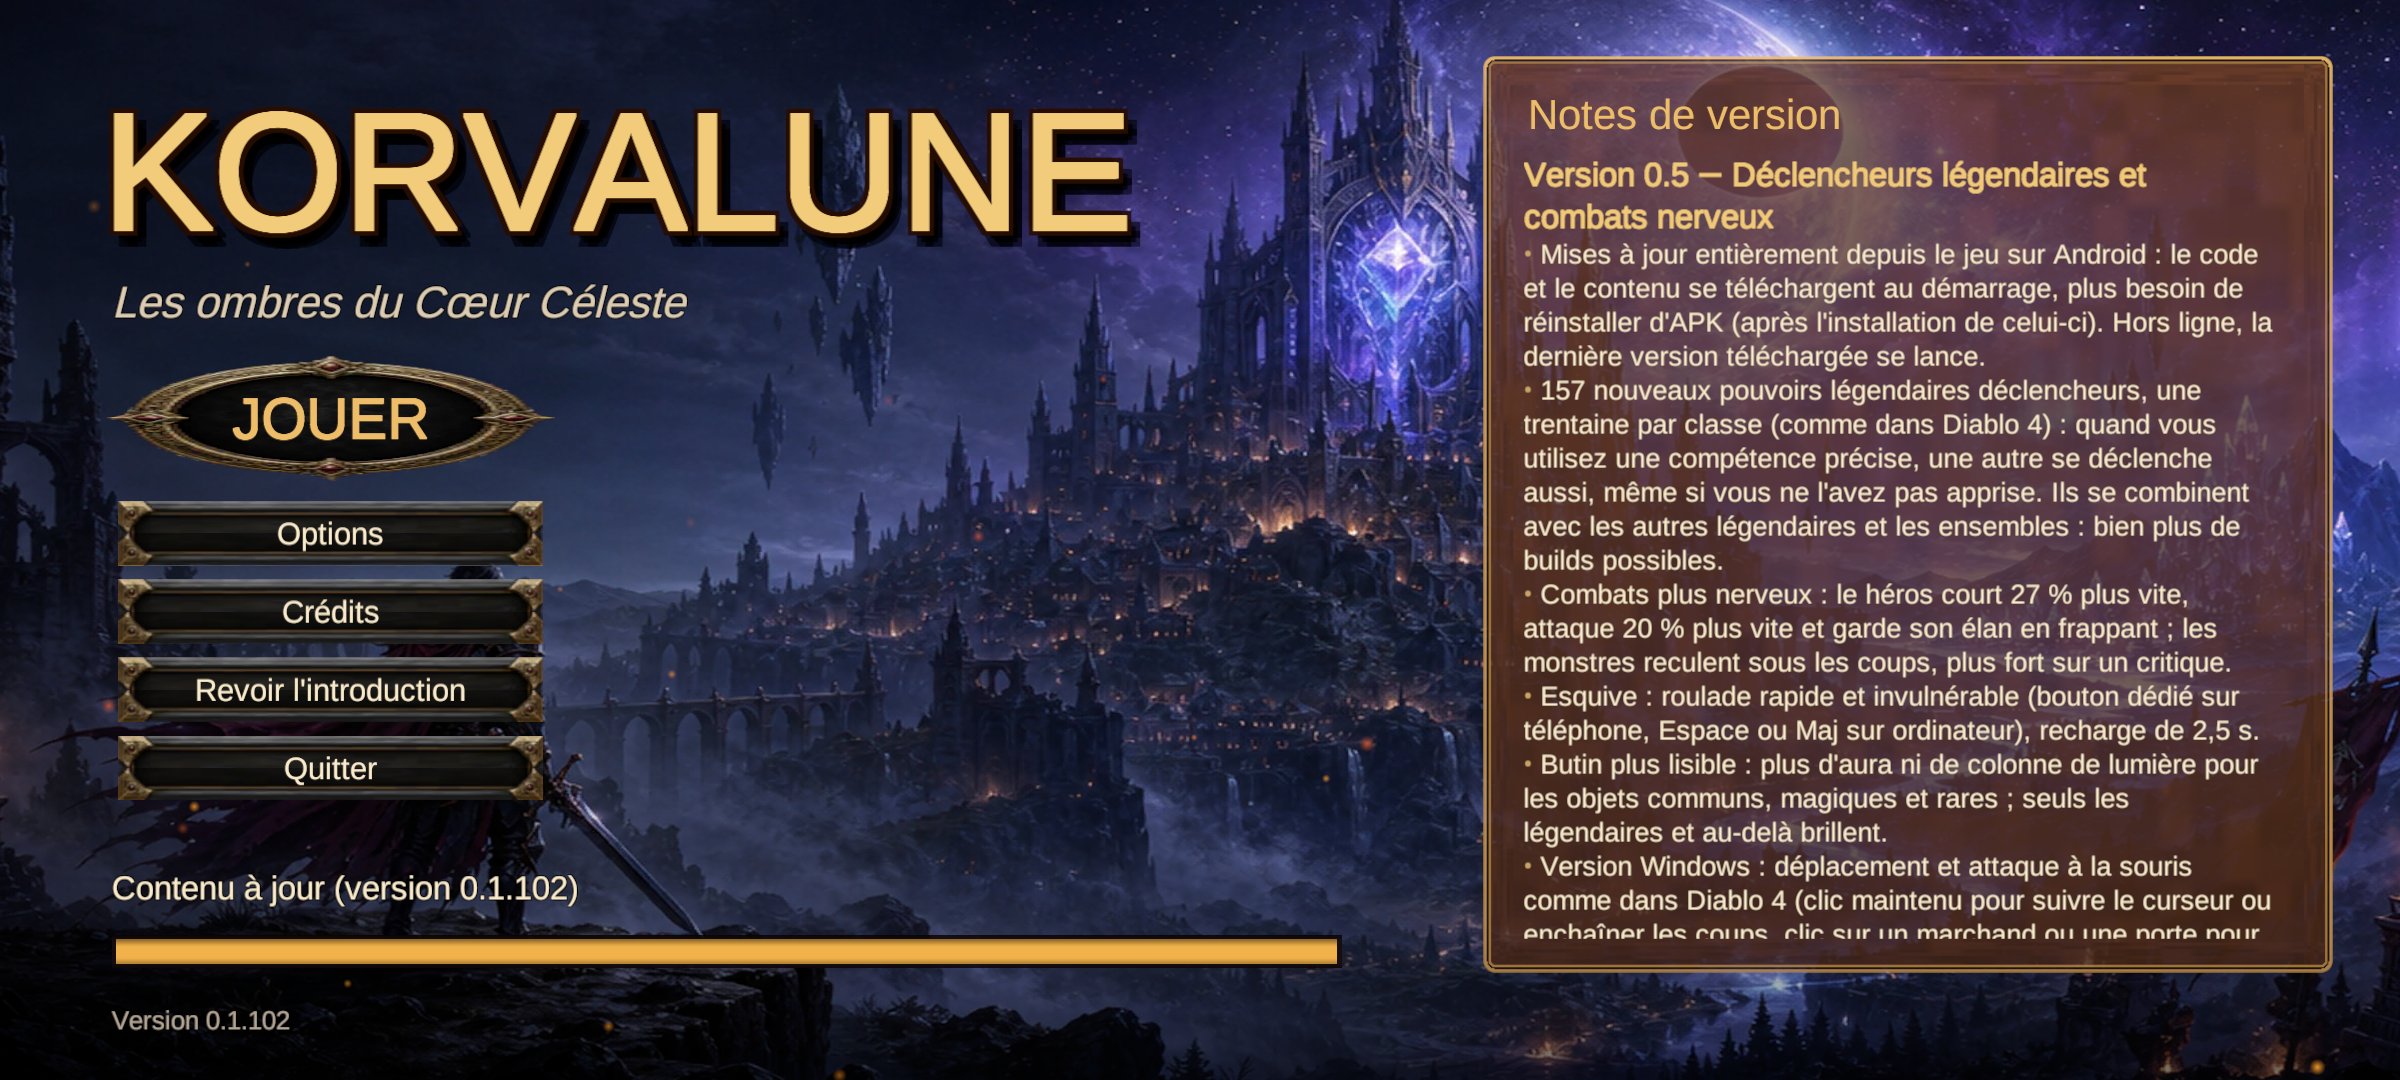
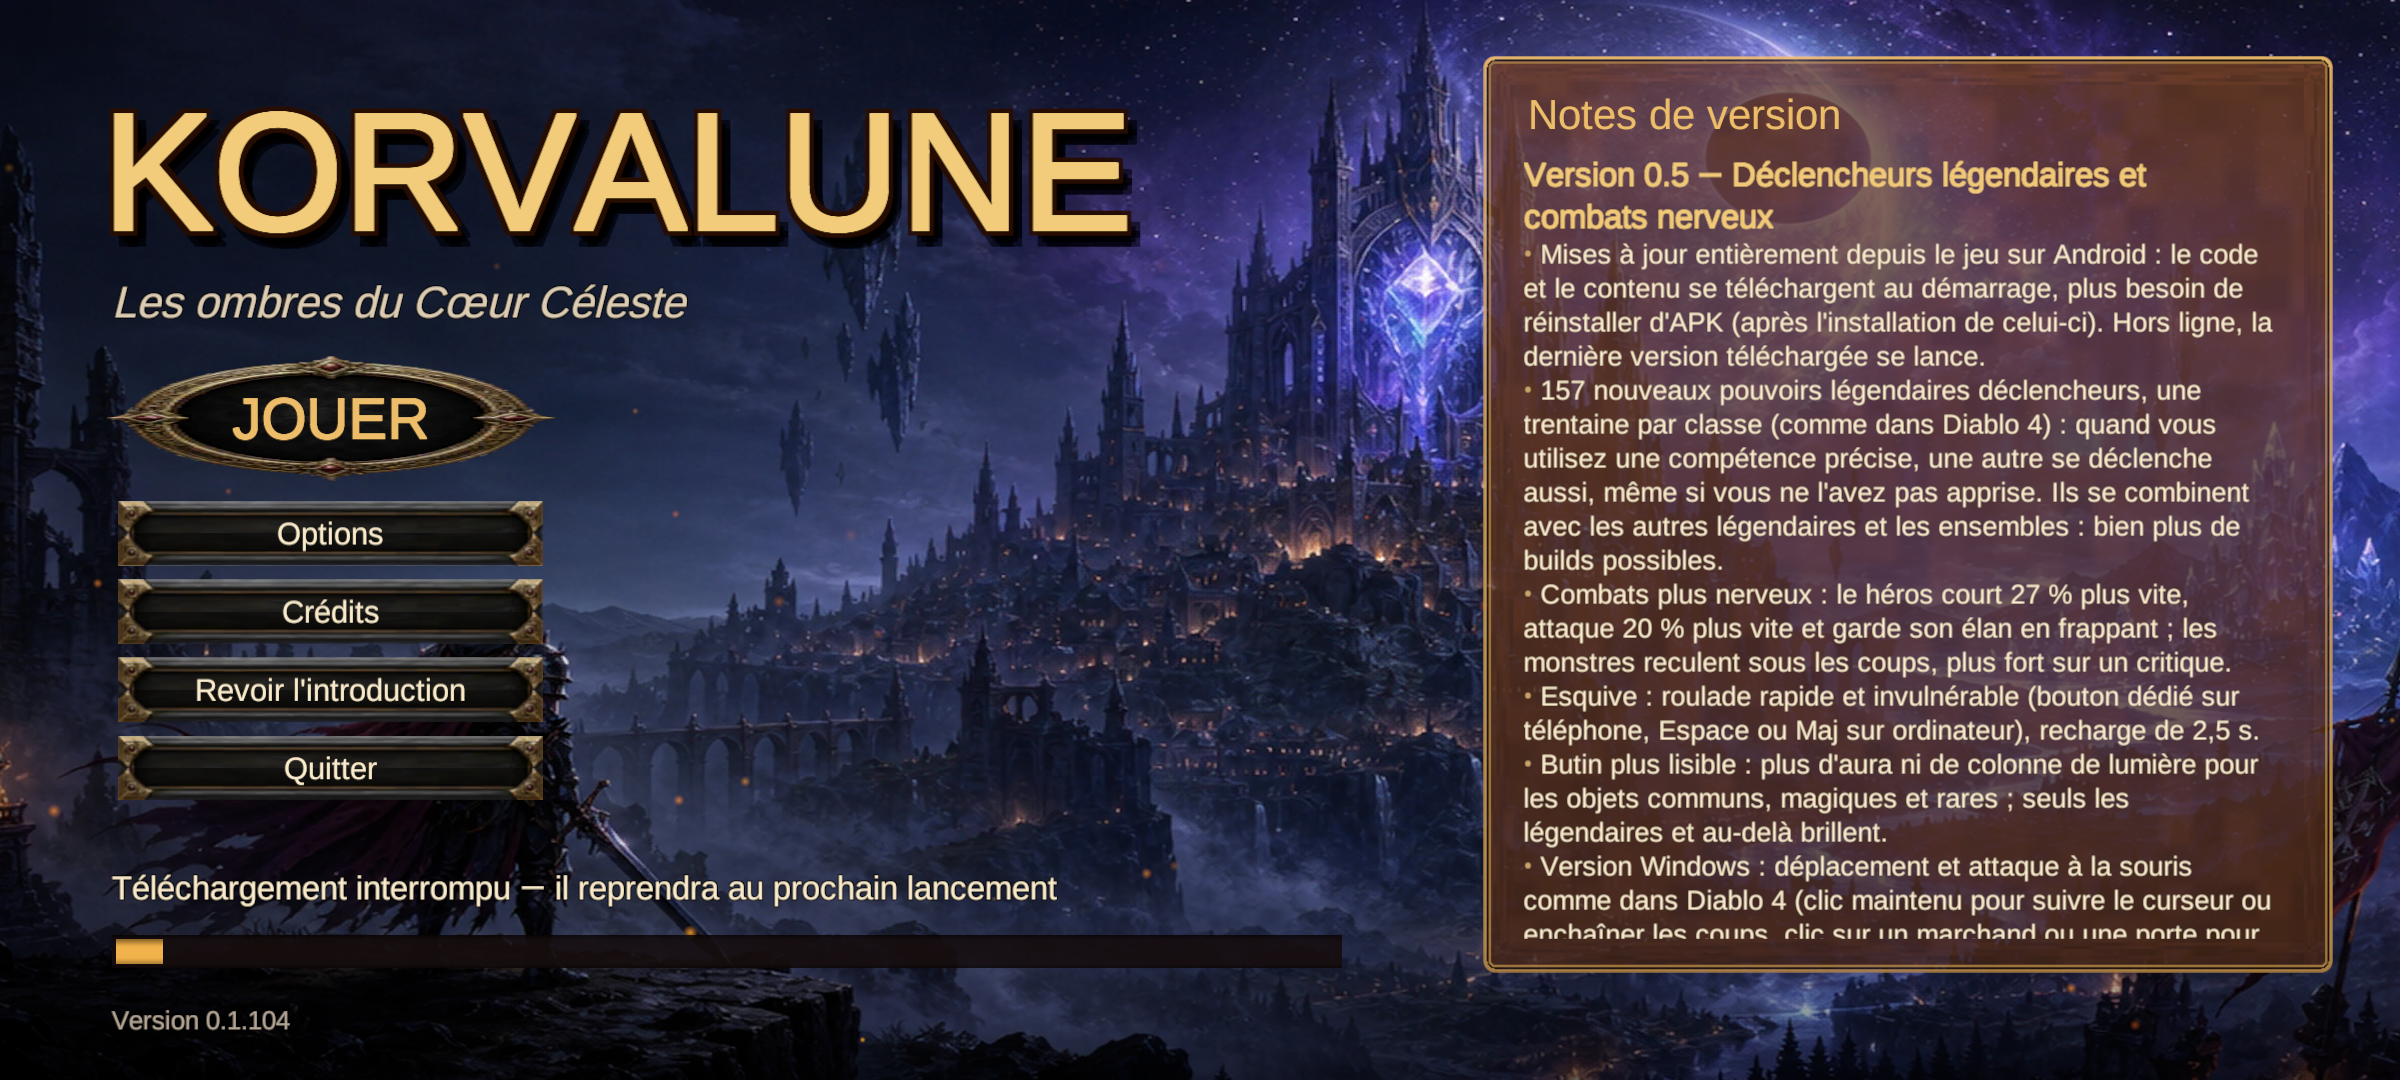
Android : APK construit et testé dans l'émulateur [skip ci]

diff --git a/ci-out/android/build.md b/ci-out/android/build.md
@@ -3,7 +3,7 @@
 - Scènes : Korvalune_Lanceur, Korvalune_Selection, CharacterCreator, Korvalune_Vallee, Korvalune_Crypte, Korvalune_Terriers, Korvalune_Eclipse, Korvalune_Breche, Korvalune_Foret, Korvalune_Desert, Korvalune_Pics, Korvalune_Cote, Korvalune_Marais, Korvalune_Toundra, Korvalune_Volcan, Korvalune_Canyon, Korvalune_Abime
 - Signature : clé Korvalune (mises à jour sans désinstaller)
 - Icône : Assets/Korvalune/Resources/UI/Icone.png
-- Contenu téléchargeable : 100 paquets, 722 Mo (release contenu-102)
+- Contenu téléchargeable : 100 paquets, 722 Mo (release contenu-104)
     - scenes : 146.4 Mo
     - art_catalog_models : 58.3 Mo
     - art_catalog_skins : 34.6 Mo
@@ -16,11 +16,10 @@
     - art_heroes_kaeldraven_f : 17.2 Mo
     - art_heroes_kaeldraven_m : 16.7 Mo
     - art_heroes_tharion_f : 16.7 Mo
-- HybridCLR : installation 9.0.3 (il2cpp v6000.0.x-9.0.1)
-- HybridCLR : génération en 2.5 min
-- Code mis à jour depuis le jeu : Korvalune.Runtime 653 Ko + 7 métadonnées (9.0 Mo), APK minimal 0
-- Résultat : **Succeeded** en 17.0 min, 0 erreur(s), 12 avertissement(s)
-- APK : 129.1 Mo, version 0.1.102
+- HybridCLR : génération en 2.0 min
+- Code mis à jour depuis le jeu : Korvalune.Runtime 664 Ko + 7 métadonnées (9.0 Mo), APK minimal 0
+- Résultat : **Succeeded** en 21.6 min, 0 erreur(s), 12 avertissement(s)
+- APK : 129.1 Mo, version 0.1.104
 
 ## Contenu empaqueté : 35 Mo
 - Texture2D : 23.0 Mo (295)
@@ -28,7 +27,7 @@
 - Cubemap : 1.6 Mo (13)
 - Shader : 1.3 Mo (34)
 - Sprite : 0.1 Mo (210)
-- MonoScript : 0.1 Mo (911)
+- MonoScript : 0.1 Mo (914)
 - Font : 0.1 Mo (1)
 - MonoBehaviour : 0.1 Mo (434)
 - RectTransform : 0.0 Mo (348)
@@ -70,46 +69,46 @@
 
 ## Mémoire pendant la construction (dernières mesures)
 ```
-09:46:40 ram 6981/15983 swap 1/16383  4806296 Unity 454608 Unity.ILPP.Runn 
-09:46:45 ram 6891/15983 swap 1/16383  4806296 Unity 456872 Unity.ILPP.Runn 
-09:46:50 ram 7048/15983 swap 1/16383  4806296 Unity 457752 Unity.ILPP.Runn 
-09:46:55 ram 6870/15983 swap 1/16383  4806284 Unity 459440 Unity.ILPP.Runn 
-09:47:01 ram 7136/15983 swap 1/16383  4806284 Unity 460976 Unity.ILPP.Runn 
-09:47:06 ram 6980/15983 swap 1/16383  4806284 Unity 462888 Unity.ILPP.Runn 
-09:47:11 ram 6889/15983 swap 1/16383  4806256 Unity 464608 Unity.ILPP.Runn 
-09:47:16 ram 7010/15983 swap 1/16383  4806256 Unity 465928 Unity.ILPP.Runn 
-09:47:21 ram 7071/15983 swap 1/16383  4806260 Unity 468216 Unity.ILPP.Runn 
-09:47:26 ram 6927/15983 swap 1/16383  4806260 Unity 469688 Unity.ILPP.Runn 
-09:47:31 ram 7023/15983 swap 1/16383  4806260 Unity 470920 Unity.ILPP.Runn 
-09:47:36 ram 7239/15983 swap 369/16383  4514680 Unity 1230608 ld.lld 
-09:47:41 ram 6678/15983 swap 1235/16383  3870196 Unity 2273580 ld.lld 
-09:47:46 ram 5941/15983 swap 1947/16383  3176000 Unity 2855468 ld.lld 
-09:47:52 ram 4332/15983 swap 2528/16383  2645864 Unity 431792 Unity.ILPP.Runn 
-09:47:57 ram 3793/15983 swap 2787/16383  2434604 Unity 408624 Unity.ILPP.Runn 
-09:48:02 ram 4214/15983 swap 2787/16383  2434032 Unity 432444 llvm-objcopy 
-09:48:07 ram 3819/15983 swap 2787/16383  2433744 Unity 419892 Unity.ILPP.Runn 
-09:48:12 ram 3818/15983 swap 2787/16383  2434848 Unity 422924 Unity.ILPP.Runn 
-09:48:17 ram 3933/15983 swap 2787/16383  2434864 Unity 422924 Unity.ILPP.Runn 
-09:48:22 ram 4140/15983 swap 2787/16383  2434884 Unity 423008 Unity.ILPP.Runn 
-09:48:27 ram 4179/15983 swap 2787/16383  2434880 Unity 424856 Unity.ILPP.Runn 
-09:48:32 ram 4384/15983 swap 2787/16383  2434824 Unity 549816 java 
-09:48:37 ram 4539/15983 swap 2787/16383  2434840 Unity 535228 java 
-09:48:42 ram 4554/15983 swap 2787/16383  2434856 Unity 659800 java 
-09:48:47 ram 4556/15983 swap 2787/16383  2433036 Unity 681232 java 
-09:48:52 ram 4984/15983 swap 2787/16383  2432956 Unity 1161848 java 
-09:48:57 ram 5622/15983 swap 2787/16383  2432916 Unity 1803492 java 
-09:49:02 ram 5929/15983 swap 2787/16383  2432816 Unity 1981444 java 
-09:49:07 ram 5699/15983 swap 2787/16383  2432720 Unity 1687292 java 
-09:49:12 ram 5658/15983 swap 2787/16383  2432732 Unity 1735476 java 
-09:49:17 ram 5747/15983 swap 2787/16383  2432732 Unity 1743928 java 
-09:49:22 ram 5611/15983 swap 2787/16383  2431952 Unity 1744908 java 
-09:49:27 ram 5621/15983 swap 2787/16383  2431868 Unity 1745656 java 
-09:49:32 ram 5853/15983 swap 2787/16383  2431656 Unity 1944832 java 
-09:49:37 ram 6055/15983 swap 2787/16383  2431472 Unity 2113936 java 
-09:49:42 ram 5968/15983 swap 2782/16383  2441088 Unity 2056292 java 
-09:49:47 ram 3565/15983 swap 2362/16383  2407604 Unity 193776 MainThread 
-09:49:52 ram 1281/15983 swap 25/16383  193776 MainThread 158432 provjobd3510909 
-09:49:57 ram 1259/15983 swap 25/16383  193776 MainThread 148756 Runner.Worker 
+08:42:27 ram 6620/15983 swap 112/16383  4781304 Unity 477872 Unity.ILPP.Runn 
+08:42:32 ram 6616/15983 swap 112/16383  4781304 Unity 479368 Unity.ILPP.Runn 
+08:42:37 ram 6641/15983 swap 112/16383  4781304 Unity 480240 Unity.ILPP.Runn 
+08:42:42 ram 6875/15983 swap 112/16383  4781304 Unity 1124132 ld.lld 
+08:42:47 ram 7277/15983 swap 112/16383  4780956 Unity 2876756 ld.lld 
+08:42:52 ram 6722/15983 swap 132/16383  4780440 Unity 1733436 ld.lld 
+08:42:57 ram 6787/15983 swap 629/16383  4448244 Unity 1889776 ld.lld 
+08:43:02 ram 5772/15983 swap 1121/16383  4037260 Unity 2145052 ld.lld 
+08:43:07 ram 5554/15983 swap 1299/16383  3855460 Unity 2675464 ld.lld 
+08:43:13 ram 4631/15983 swap 1811/16383  3346828 Unity 340616 Unity.ILPP.Runn 
+08:43:18 ram 3986/15983 swap 2387/16383  2750116 Unity 345596 Unity.ILPP.Runn 
+08:43:23 ram 3544/15983 swap 2872/16383  2261168 Unity 347256 Unity.ILPP.Runn 
+08:43:28 ram 3250/15983 swap 3070/16383  2062992 Unity 349224 Unity.ILPP.Runn 
+08:43:33 ram 3566/15983 swap 3064/16383  2082632 Unity 349288 Unity.ILPP.Runn 
+08:43:38 ram 3681/15983 swap 3064/16383  2082808 Unity 349380 Unity.ILPP.Runn 
+08:43:43 ram 3693/15983 swap 3064/16383  2082948 Unity 351492 Unity.ILPP.Runn 
+08:43:48 ram 3695/15983 swap 3314/16383  1836224 Unity 562188 java 
+08:43:53 ram 3402/15983 swap 3589/16383  1554208 Unity 589380 java 
+08:43:58 ram 3534/15983 swap 3669/16383  1466436 Unity 813652 java 
+08:44:03 ram 3554/15983 swap 4167/16383  1071652 java 1064988 Unity 
+08:44:08 ram 3246/15983 swap 4387/16383  1107036 java 839192 Unity 
+08:44:13 ram 3162/15983 swap 4504/16383  1164432 java 735832 Unity 
+08:44:18 ram 3087/15983 swap 4612/16383  1232100 java 693996 Unity 
+08:44:23 ram 3077/15983 swap 4612/16383  1252168 java 694288 Unity 
+08:44:28 ram 3176/15983 swap 4645/16383  1420164 java 671508 Unity 
+08:44:33 ram 3401/15983 swap 4645/16383  1434548 java 671664 Unity 
+08:44:38 ram 3404/15983 swap 4645/16383  1469244 java 671832 Unity 
+08:44:43 ram 3277/15983 swap 4645/16383  1474284 java 671800 Unity 
+08:44:48 ram 3330/15983 swap 4645/16383  1534992 java 671984 Unity 
+08:44:54 ram 3474/15983 swap 4662/16383  1655188 java 671764 Unity 
+08:44:59 ram 3601/15983 swap 4666/16383  1789268 java 671752 Unity 
+08:45:04 ram 3474/15983 swap 4673/16383  1681428 java 677732 Unity 
+08:45:09 ram 3595/15983 swap 4531/16383  1681428 java 849256 Unity 
+08:45:14 ram 3790/15983 swap 4471/16383  1681428 java 975088 Unity 
+08:45:19 ram 3947/15983 swap 4476/16383  1681428 java 1142720 Unity 
+08:45:24 ram 4066/15983 swap 4476/16383  1681428 java 1283380 Unity 
+08:45:29 ram 2421/15983 swap 3974/16383  1294308 Unity 130512 provjobd1894936 
+08:45:34 ram 2372/15983 swap 3896/16383  1305124 Unity 130512 provjobd1894936 
+08:45:39 ram 1151/15983 swap 154/16383  131748 provjobd1894936 119912 MainThread 
+08:45:44 ram 1217/15983 swap 154/16383  129624 provjobd1894936 124552 Unity.Licensing 
 ```
 ## Noyau (OOM)
 ```

diff --git a/ci-out/android/test.md b/ci-out/android/test.md
@@ -12,17 +12,12 @@
 - Activité : com.korvalune.game/com.unity3d.player.UnityPlayerGameActivity
     [Korvalune] partie automatique : activée
     [Korvalune][test] lanceur prêt : on joue
-    [Korvalune][test] chargement de la scène « Korvalune_Vallee » avec Testeur
-    [Korvalune][test] chargement 90 %
-    [Korvalune][test] chargement 90 %
-    [Korvalune][test] chargement 90 %
-    [Korvalune][test] chargement 90 %
-    [Korvalune][test] chargement 90 %
-    [Korvalune][test] chargement 90 %
-    [Korvalune][test] chargement 90 %
-    [Korvalune][test] chargement 90 %
+    [Korvalune][test] chargement de la scène « Korvalune_Selection » avec Testeur
+    [Korvalune][test] ÉCHEC : scène introuvable
 - ⚠ Partie automatique inachevée (voir partie.txt)
 - ✅ Aucun plantage dans le journal
-- Erreurs Unity dans le journal : 0
+- Erreurs Unity dans le journal : 2
+    11-07 08:54:09.093  6271  6293 E Unity   : Scene 'Korvalune_Selection' couldn't be loaded because it has not been added to the active build profile or shared scene list or the AssetBundle has not been loaded.
+    11-07 08:54:09.093  6271  6293 E Unity   : To add a scene to the active build profile or shared scene list use the menu File->Build Profiles
 
 **RÉSULTAT : OK**
